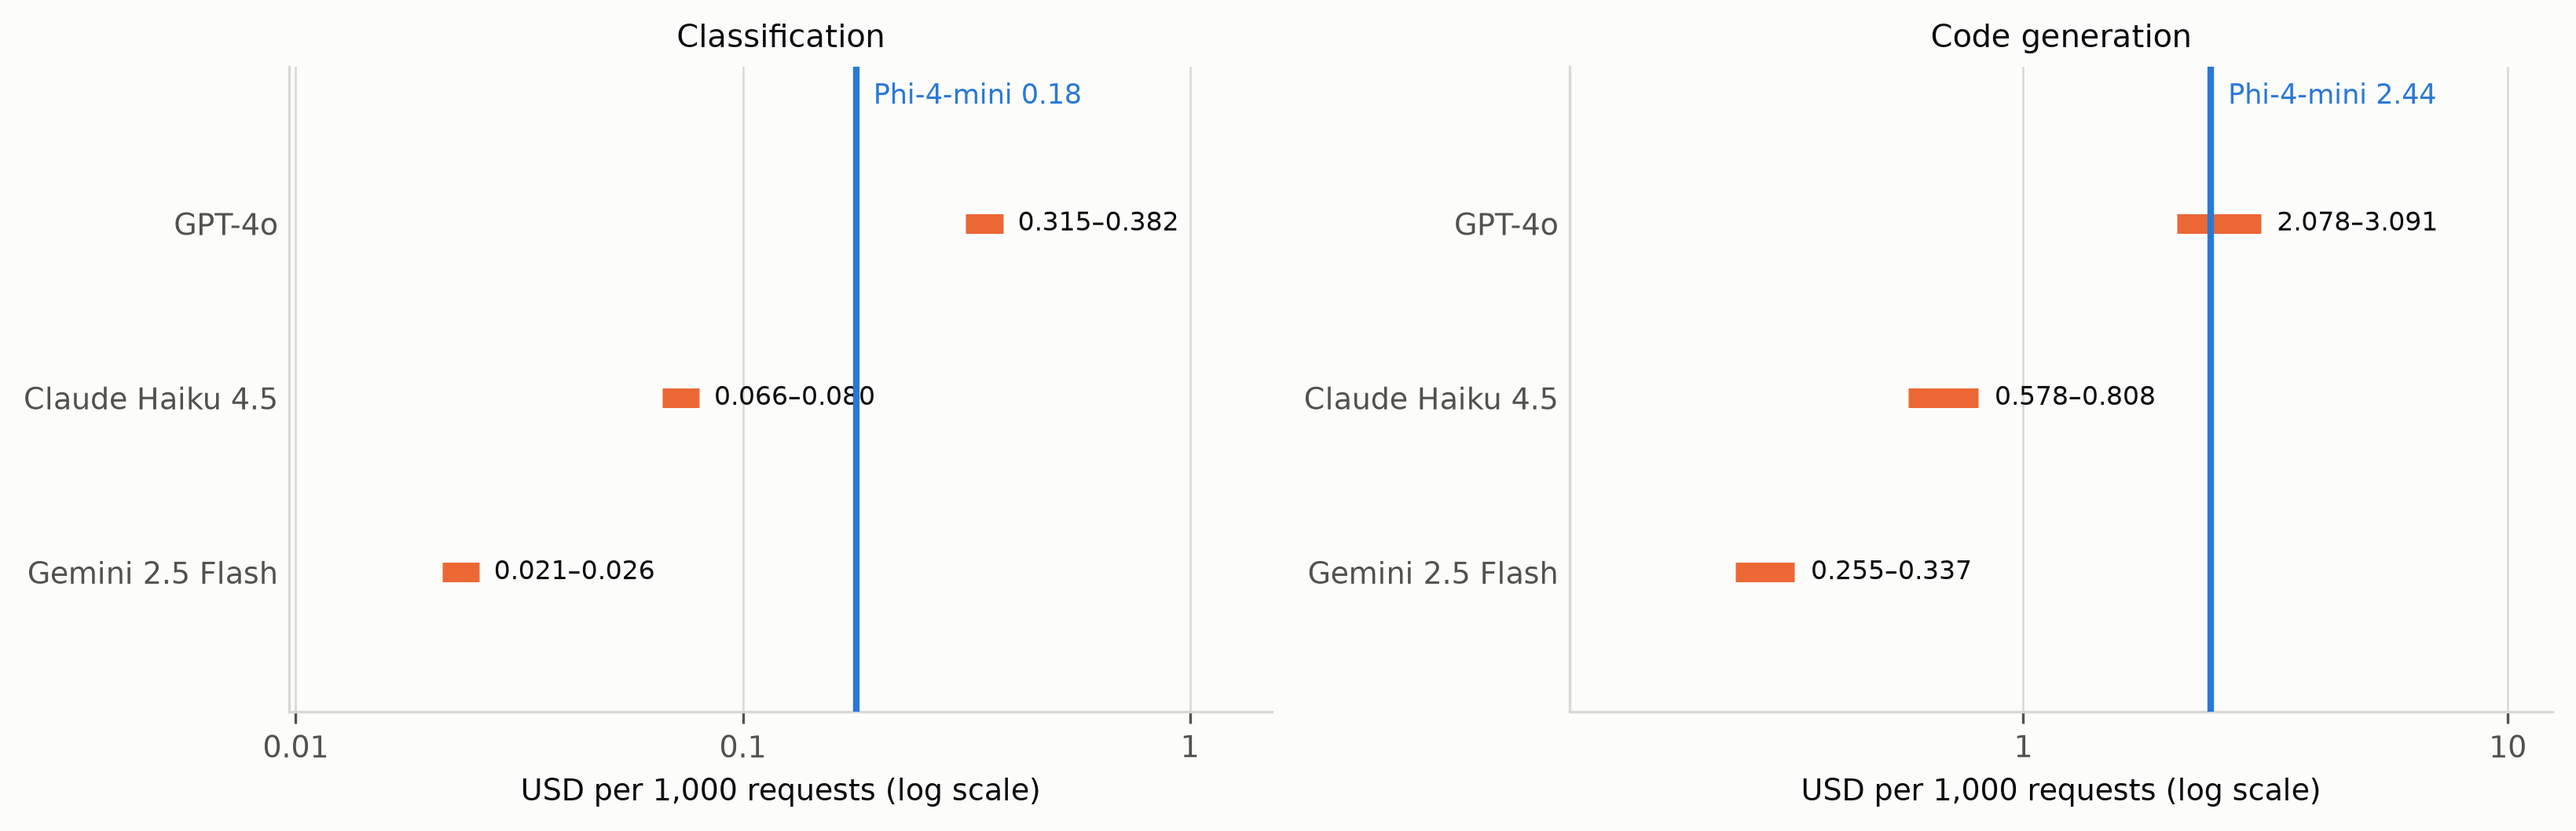
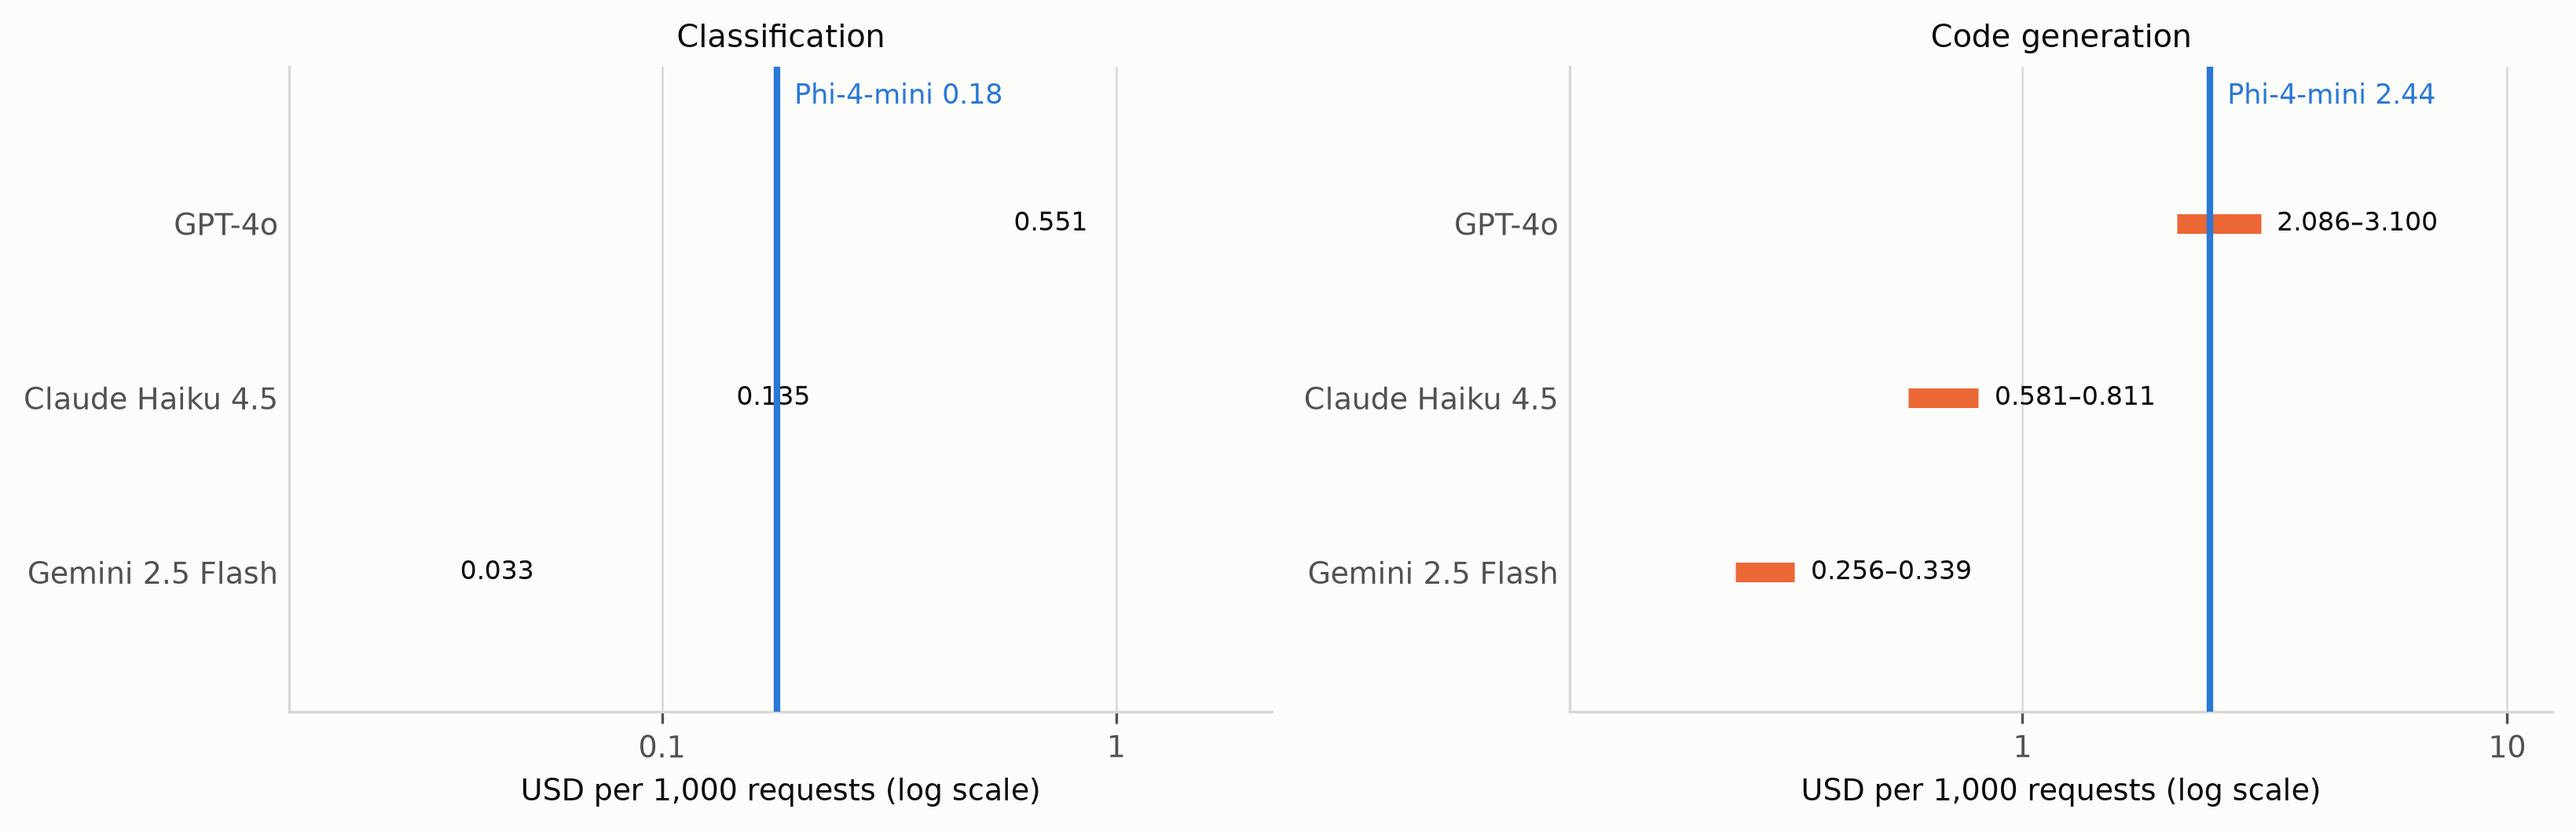
results: rebuild on the re-run data; exclude latency artefacts; live CIs
Rebuilt every derived artefact from the corrected Phase 1 CSVs. Three
substantive changes come with it.

Financial sentiment is now measured on the seeded split for both arms
(96/94/97 against the previous 99/93/99 on the label-clustered sample), so
the cross-arm comparison the audit withdrew is restored. Code generation
now covers all 164 HumanEval problems for both arms (75.0/79.3/86.6
against 52/54/78 on the first 50), removing the protocol asymmetry.

Latency: five samples across four tasks sit at 727-1,656 s against medians
of 0.7-2.0 s, four of them clustered in one wall-clock window - the
signature of the client host suspending mid-request, not of provider
behaviour. A completion capped at 512 tokens cannot take 27 minutes. They
are excluded above a 60 s threshold, counted in a new
latency_artefacts_excluded column so the exclusion is visible, and median
and p95 columns are added since the distributions are right-skewed. Means
fall from as high as 18,661 ms to 722-2,277 ms.

Confidence intervals are now computed from the CSVs rather than hardcoded,
so they track the data through re-runs; the previous constants were stale
the moment the accuracy values moved. Intervals are produced only for the
binomial cells, since a proportion and a sample size are sufficient there
and the continuous-metric cells have no persisted per-instance scores.

Cost per request now uses provider-billed token counts where the
[…]

diff --git a/results/make_figures.py b/results/make_figures.py
@@ -19,6 +19,7 @@ Usage:
     python results/make_figures.py            # writes results/figures/*.png
 """
 
+import math
 import os
 
 import matplotlib
@@ -69,21 +70,38 @@ TASKS = ["classification", "ner", "summarization", "financial_sentiment", "code_
 #          positive); the self-hosted arm's seeded-split scores stand.
 INVALID = {("ner", m) for m in SLMS} | {("financial_sentiment", m) for m in APIS}
 
-# Wilson 95% CIs for the binomial cells (proportion + n is sufficient; no
-# per-instance data needed). Continuous-metric cells (NER F1, ROUGE-L) have
-# no CI for the self-hosted arm because per-instance scores were not
-# persisted in the first sweep.
-CI = {
-    ("classification", "phi-4-mini-instruct"): (0.874, 0.950),
-    ("classification", "Llama-3.2-3B-Instruct"): (0.761, 0.867),
-    ("classification", "Mistral-7B-v0.3"): (0.623, 0.750),
-    ("classification", "gpt-4o"): (0.767, 0.907),
-    ("classification", "claude-haiku-4-5"): (0.722, 0.875),
-    ("classification", "gemini-2.5-flash"): (0.767, 0.907),
-    ("code_generation", "gpt-4o"): (0.385, 0.652),
-    ("code_generation", "claude-haiku-4-5"): (0.404, 0.670),
-    ("code_generation", "gemini-2.5-flash"): (0.648, 0.872),
-}
+# Wilson 95% confidence intervals, computed from the data rather than
+# hardcoded, so they track the CSVs through every re-run. A proportion and a
+# sample size are sufficient — no per-instance data is needed — which is why
+# intervals exist for the binomial cells (classification, financial
+# sentiment, pass@1) but not for the continuous-metric cells (NER entity F1,
+# ROUGE-L), whose per-instance scores the first sweep did not persist for the
+# self-hosted arm.
+BINOMIAL_TASKS = {"classification", "financial_sentiment", "code_generation"}
+# The self-hosted arm's evaluation size is fixed by run_full_evaluation's
+# max_eval_samples; HumanEval is scored over all 164 problems.
+SLM_N = {"classification": 200, "financial_sentiment": 200, "code_generation": 164}
+
+
+def wilson(p, n, z=1.96):
+    if n <= 0:
+        return None
+    den = 1 + z * z / n
+    centre = (p + z * z / (2 * n)) / den
+    half = z * math.sqrt(p * (1 - p) / n + z * z / (4 * n * n)) / den
+    return max(0.0, centre - half), min(1.0, centre + half)
+
+
+def ci_for(df, task, model):
+    """(lo, hi) or None when the cell has no defensible interval."""
+    if task not in BINOMIAL_TASKS:
+        return None
+    row = df[(df.task == task) & (df.model == model)]
+    if row.empty:
+        return None
+    row = row.iloc[0]
+    n = row["n_instances"] if "n_instances" in row and pd.notna(row["n_instances"]) else SLM_N.get(task)
+    return wilson(float(row["accuracy"]), int(n))
 
 
 def style():
@@ -155,7 +173,7 @@ def fig_classification_ci(df):
     ypos = np.arange(len(ORDER))[::-1]
     for y, m in zip(ypos, ORDER):
         v = sub.loc[m, "accuracy"]
-        lo, hi = CI[("classification", m)]
+        lo, hi = ci_for(df, "classification", m)
         ax.plot([lo, hi], [y, y], color=colour(m), lw=2, solid_capstyle="round", zorder=3)
         ax.plot(v, y, "o", ms=9, color=colour(m), mec=SURFACE, mew=1.6, zorder=4)
         ax.text(hi + 0.012, y, f"{v:.2f}", va="center", fontsize=8.5, color=INK)
@@ -246,21 +264,38 @@ def fig_breakeven():
     """The headline economic figure: cumulative cost, crossover marked."""
     c_slm_req = 0.16177 * R_GPU / 3600
     c_ft = 0.1544 * R_GPU
-    reqs = np.linspace(0, 12000, 400)
+    cpr = pd.read_csv("results/cost_per_request.csv")
+    rows = cpr[(cpr.task == "classification") & (cpr.api == "gpt-4o")]
+    # After the usage-capture re-run the API cost comes from provider-billed
+    # token counts, so there is a single exact line rather than an estimate
+    # band. Before it, the chars-per-token band gives one line per bound.
+    billed = (rows.chars_per_token.astype(str) == "billed").any()
+    if billed:
+        variants = [(rows[rows.chars_per_token.astype(str) == "billed"], "-",
+                     "GPT-4o API (provider-billed tokens)")]
+    else:
+        variants = [(rows[rows.chars_per_token.astype(str) == str(c)], ls,
+                     f"GPT-4o API ({c} chars/token estimate)")
+                    for c, ls in [(3.8, "-"), (4.6, "--")]]
+
+    x_max = 12000
+    for row, _, _ in variants:
+        c_api = row["api_usd_per_1k_req"].iloc[0] / 1000
+        x_max = max(x_max, int(c_ft / (c_api - c_slm_req) * 2.6)) if c_api > c_slm_req else x_max
+    reqs = np.linspace(0, x_max, 400)
     fig, ax = plt.subplots(figsize=(7.6, 4.2))
     ax.plot(reqs, c_ft + c_slm_req * reqs, color=SLM_C, lw=2.2,
             label="Fine-tuned Phi-4-mini (self-hosted)", zorder=4)
-    for cpt, style_ in [(3.8, "-"), (4.6, "--")]:
-        cpr = pd.read_csv("results/cost_per_request.csv")
-        row = cpr[(cpr.task == "classification") & (cpr.api == "gpt-4o") &
-                  (cpr.chars_per_token.astype(str) == str(cpt))]
+    for row, style_, lab in variants:
         c_api = row["api_usd_per_1k_req"].iloc[0] / 1000
-        ax.plot(reqs, c_api * reqs, color=API_C, lw=2.0, ls=style_, zorder=3,
-                label=f"GPT-4o API ({cpt} chars/token estimate)")
+        ax.plot(reqs, c_api * reqs, color=API_C, lw=2.0, ls=style_, zorder=3, label=lab)
+        if c_api <= c_slm_req:
+            continue
         be = c_ft / (c_api - c_slm_req)
         ax.plot(be, c_ft + c_slm_req * be, "o", ms=8, color=INK, mec=SURFACE, mew=1.5, zorder=6)
         ax.annotate(f"breakeven {be:,.0f} requests",
-                    xy=(be, c_ft + c_slm_req * be), xytext=(be + 900, c_ft + c_slm_req * be - 0.42),
+                    xy=(be, c_ft + c_slm_req * be),
+                    xytext=(be + x_max * 0.09, c_ft + c_slm_req * be - 0.42),
                     fontsize=8.5, color=INK,
                     arrowprops=dict(arrowstyle="-", color=INK2, lw=0.8))
     ax.axhline(c_ft, color=INK2, lw=0.9, ls=":", zorder=2)
@@ -268,7 +303,8 @@ def fig_breakeven():
             fontsize=8.5, color=INK2, va="bottom")
     ax.set_xlabel("Cumulative requests served")
     ax.set_ylabel("Cumulative cost (USD)")
-    ax.set_xlim(0, 12000); ax.set_ylim(0, 4.2)
+    ax.set_xlim(0, x_max)
+    ax.set_ylim(0, max(4.2, (c_ft + c_slm_req * x_max) * 1.5))
     ax.legend(loc="upper left", frameon=False, fontsize=8.5)
     fig.tight_layout()
     save(fig, "fig4_5_breakeven")
@@ -282,6 +318,10 @@ def fig_utilisation():
     cpr = pd.read_csv("results/cost_per_request.csv")
     api_band = cpr[(cpr.task == "classification") & (cpr.api == "gpt-4o")]["api_usd_per_1k_req"]
     lo, hi = api_band.min() / 1000, api_band.max() / 1000
+    # With provider-billed tokens there is no band; widen it fractionally so
+    # the region stays visible as a line rather than collapsing to nothing.
+    if hi - lo < 1e-9:
+        lo, hi = lo * 0.995, hi * 1.005
     reqs = np.linspace(0, 30000, 400)
 
     fig, ax = plt.subplots(figsize=(7.6, 4.2))

diff --git a/results/benchmark_matrix.py b/results/benchmark_matrix.py
@@ -100,6 +100,18 @@ PHASE1_CSV_SPECS = {
 }
 
 
+# Latency samples above this are treated as measurement artefacts, not
+# provider behaviour. Five samples across four tasks exceed it: four sit at
+# 1,652-1,656 s and one at 727 s, against medians of 0.7-2.0 s and
+# non-artefact maxima of ~12 s. Four of the five cluster within seconds of
+# each other in wall-clock terms, which is the signature of the client host
+# suspending mid-request rather than of five independent slow responses. A
+# completion capped at 512 tokens cannot legitimately take 27 minutes. They
+# are excluded from the reported latency and counted in
+# latency_artefacts_excluded so the exclusion is visible rather than silent.
+LATENCY_ARTEFACT_THRESHOLD_S = 60.0
+
+
 def _parse_phase1_csvs(logs_dir: str = "logs") -> List[dict]:
     """One row per (API model, task), computed from the per-instance CSVs."""
     rows = []
@@ -116,14 +128,25 @@ def _parse_phase1_csvs(logs_dir: str = "logs") -> List[dict]:
             score = df[score_col].dropna()
             if score.empty:
                 continue
-            latency = df[lat_col].dropna() if lat_col in df.columns else None
+            raw_latency = df[lat_col].dropna() if lat_col in df.columns else None
+            if raw_latency is not None and not raw_latency.empty:
+                clean = raw_latency[raw_latency <= LATENCY_ARTEFACT_THRESHOLD_S]
+                excluded = int(len(raw_latency) - len(clean))
+                lat_mean = round(float(clean.mean()) * 1000, 2) if not clean.empty else None
+                lat_median = round(float(clean.median()) * 1000, 2) if not clean.empty else None
+                lat_p95 = round(float(clean.quantile(0.95)) * 1000, 2) if not clean.empty else None
+            else:
+                lat_mean = lat_median = lat_p95 = None
+                excluded = 0
             rows.append({
                 "model": model_name,
                 "task": task,
                 "method": "API",
                 "accuracy": round(float(score.mean()), 6),
-                "latency_ms": (round(float(latency.mean()) * 1000, 2)
-                               if latency is not None and not latency.empty else None),
+                "latency_ms": lat_mean,
+                "latency_median_ms": lat_median,
+                "latency_p95_ms": lat_p95,
+                "latency_artefacts_excluded": excluded,
                 "cost_per_1m_tokens": LLM_API_COSTS[model_name]["blended"],
                 "privacy_risk": get_privacy_risk("api"),
                 "roi_breakeven_tokens": None,
